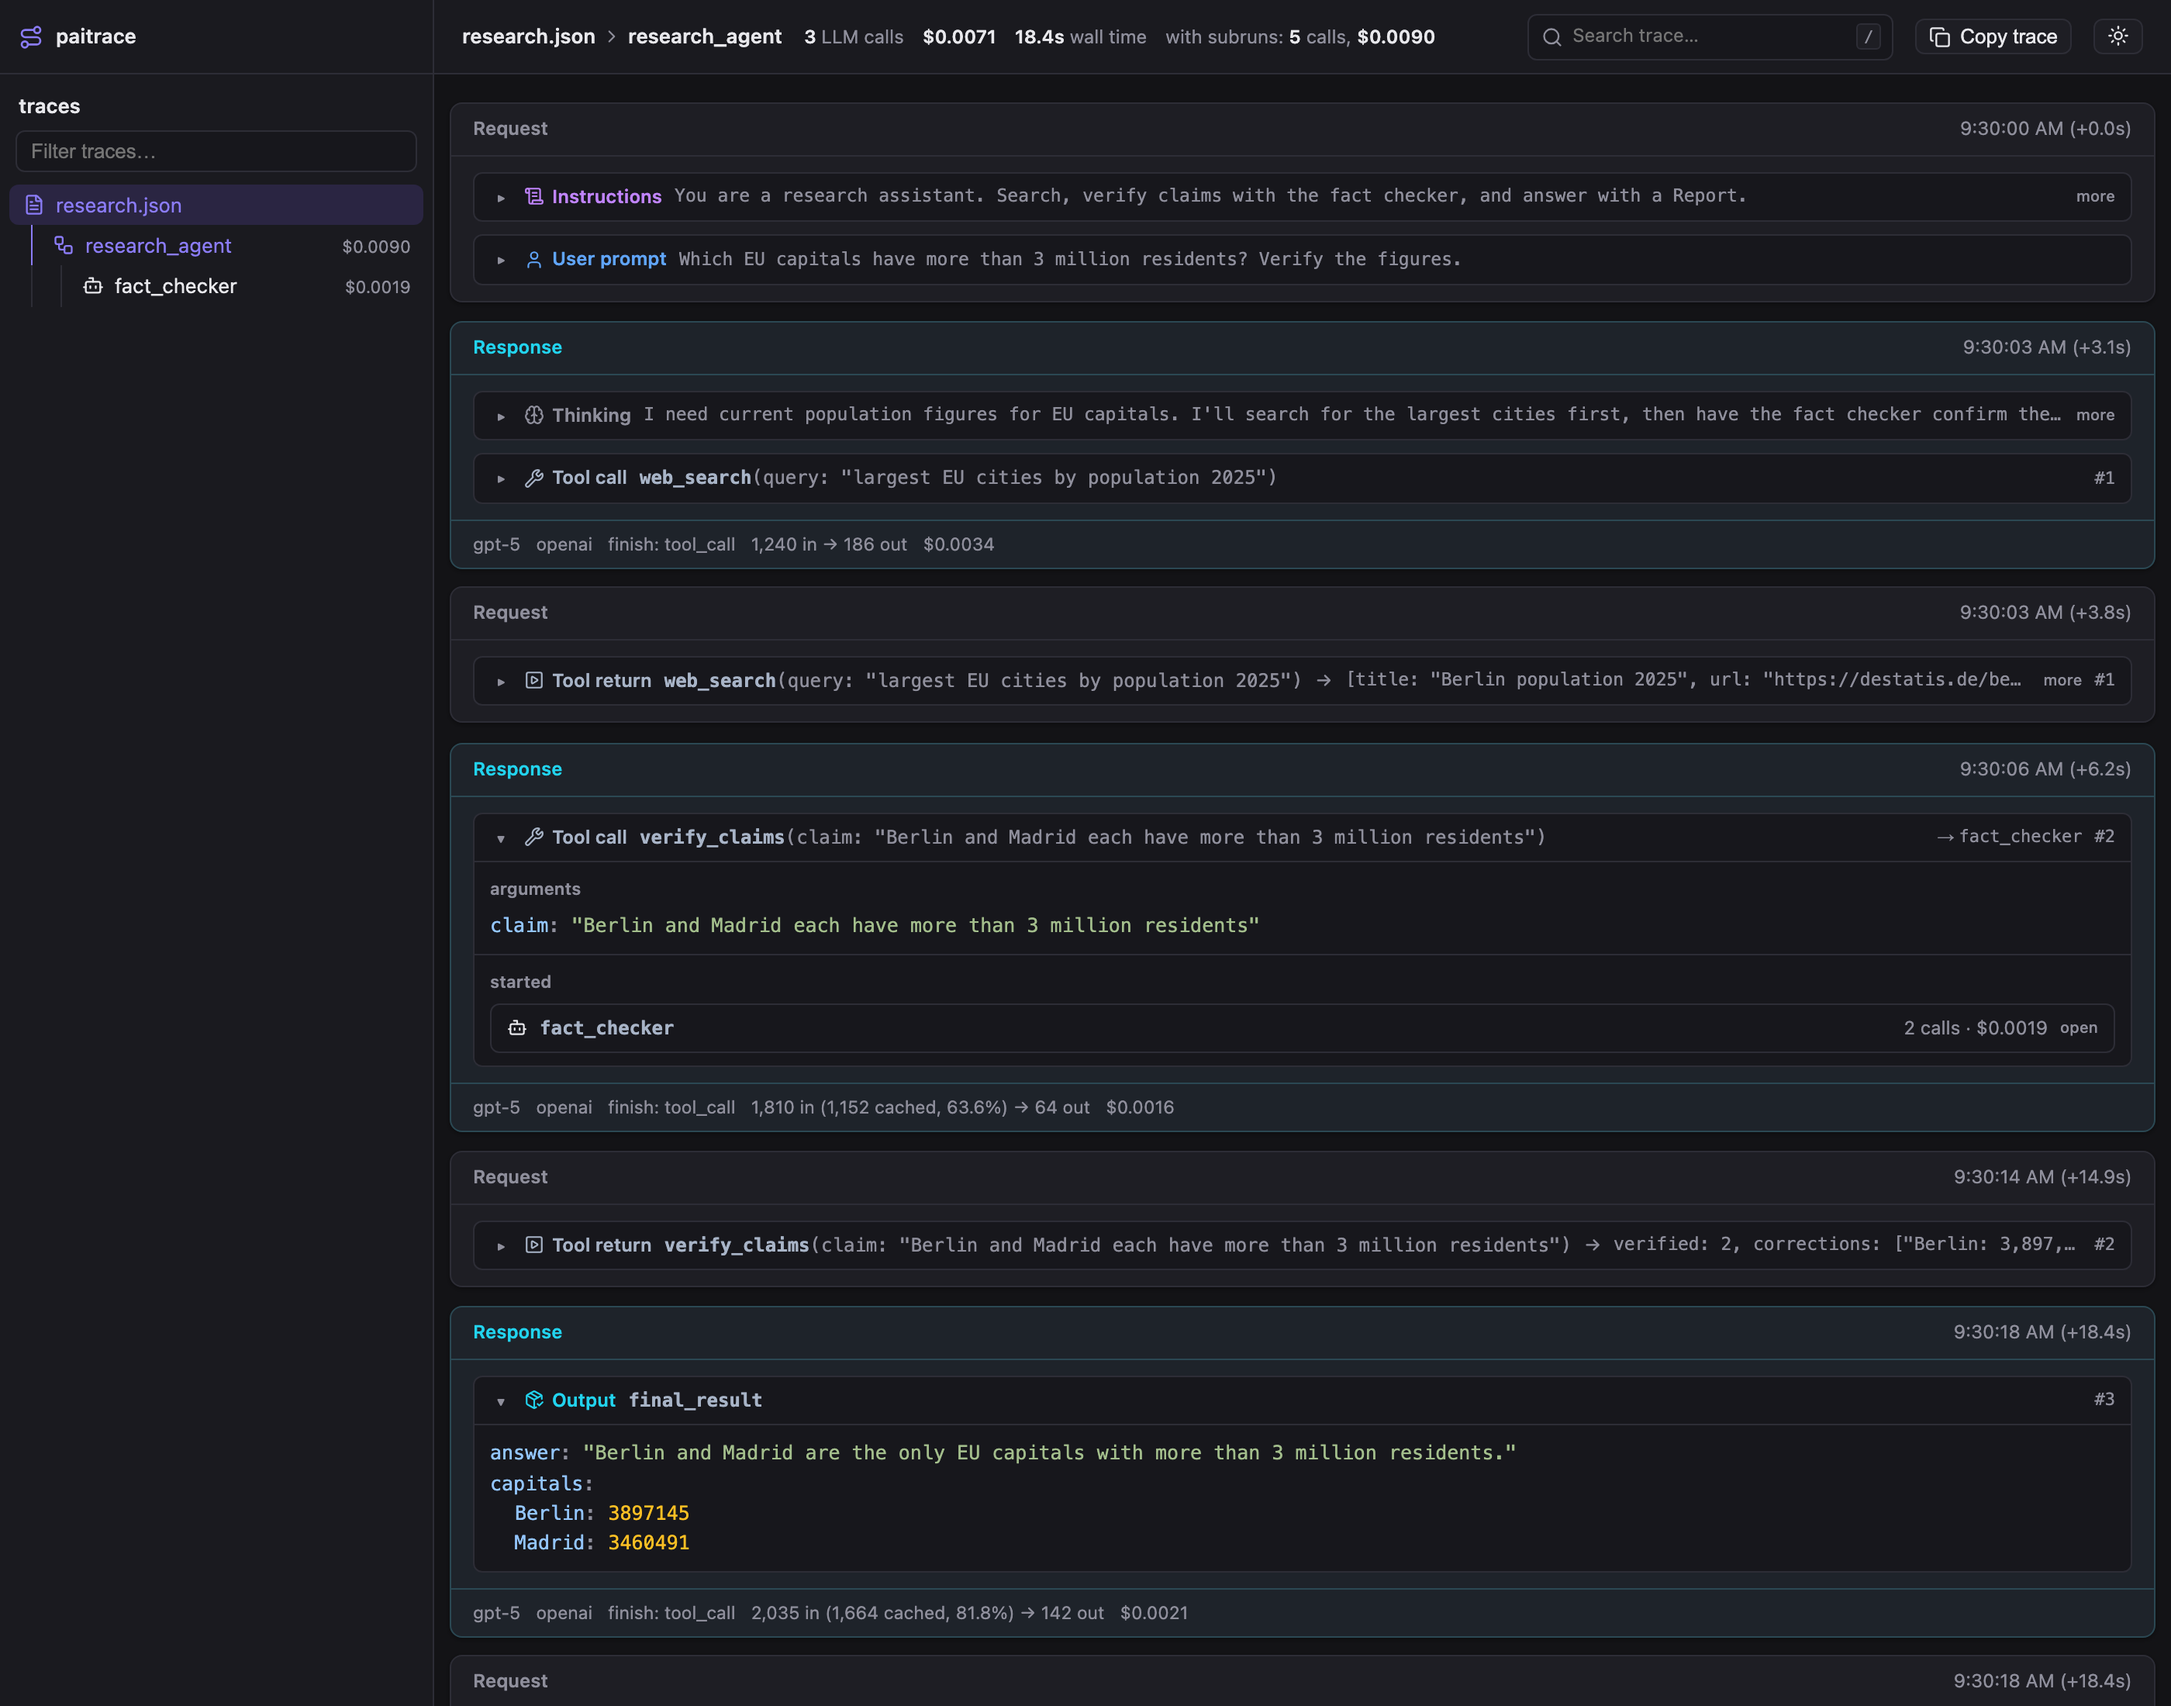
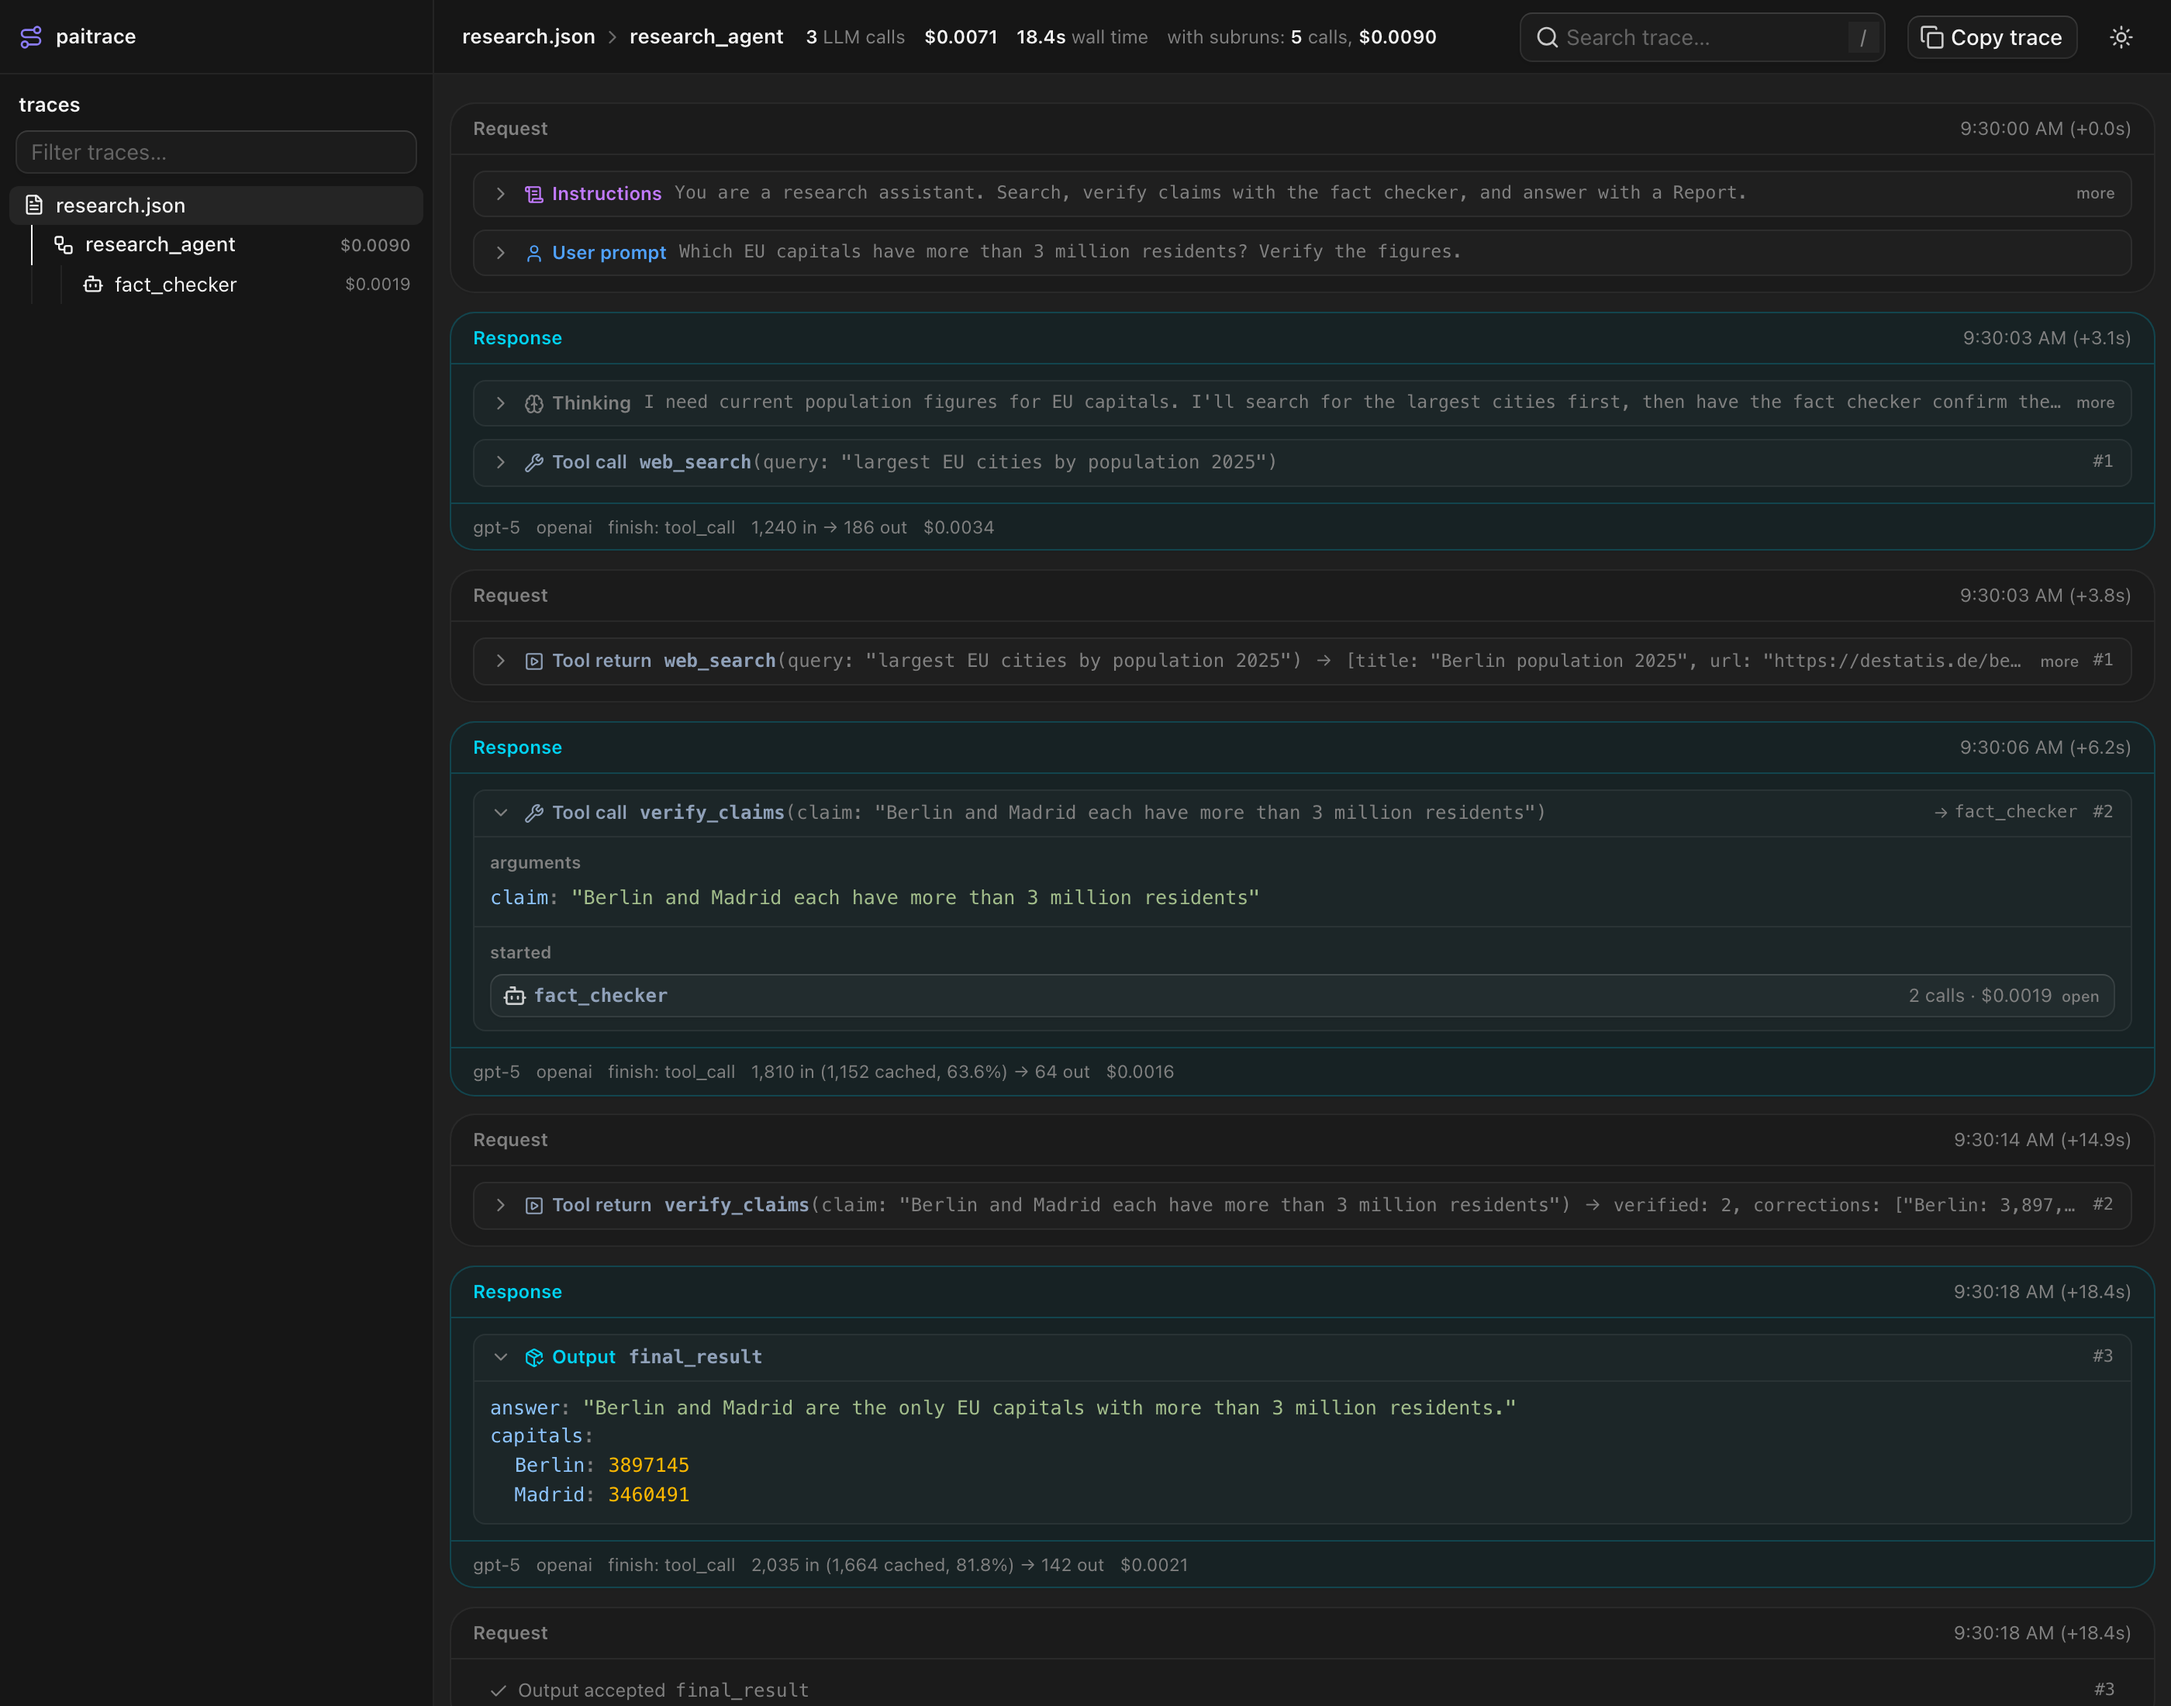
docs: regenerate README screenshots for the coss UI
Also correct the use-sync-external-store with-selector shim's comment:
preact/compat reports React 19, so Base UI reads its stores through
useSyncExternalStore and only imports the selector variant.

diff --git a/frontend/src/lib/shims/use-sync-external-store-with-selector.ts b/frontend/src/lib/shims/use-sync-external-store-with-selector.ts
@@ -1,7 +1,8 @@
-// Stands in for `use-sync-external-store/shim/with-selector`, which Base UI uses to
-// read its stores. The real shim is CommonJS and requires React itself; see the
-// aliases in vite.config.ts. Same contract: re-render only when the selection
-// changes, as `isEqual` judges it.
+// Stands in for `use-sync-external-store/shim/with-selector`. Base UI imports it but
+// calls it only on React before 19; preact/compat reports 19, so Base UI reads its
+// stores through useSyncExternalStore instead. The import must still resolve: the
+// real shim is CommonJS and requires React itself; see the aliases in vite.config.ts.
+// Same contract: re-render only when the selection changes, as `isEqual` judges it.
 import { useMemo, useSyncExternalStore } from "preact/compat";
 
 export function useSyncExternalStoreWithSelector<Snapshot, Selection>(
